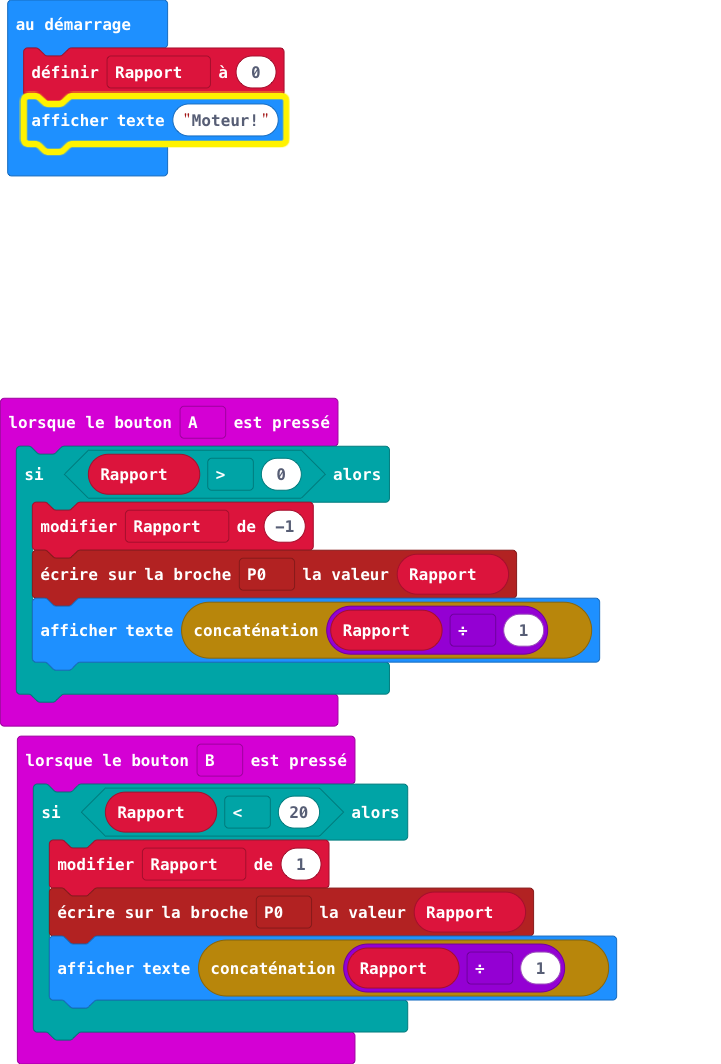
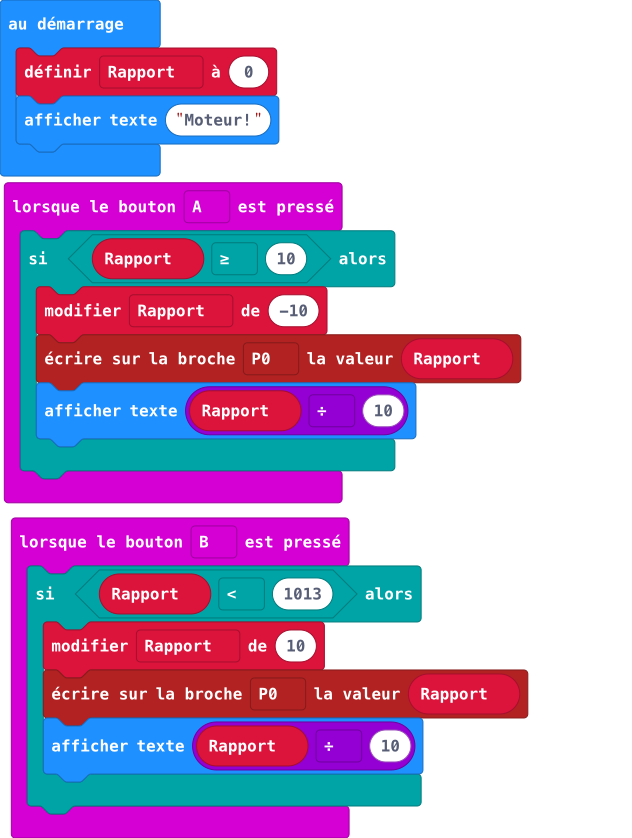
Mise à jour main.blocks, main.ts

diff --git a/main.ts b/main.ts
@@ -1,15 +1,15 @@
 input.onButtonPressed(Button.A, function () {
-    if (Rapport > 0) {
-        Rapport += -1
+    if (Rapport >= 10) {
+        Rapport += -10
         pins.digitalWritePin(DigitalPin.P0, Rapport)
-        basic.showString("" + Rapport / 1)
+        basic.showString("" + (Rapport / 10))
     }
 })
 input.onButtonPressed(Button.B, function () {
-    if (Rapport < 20) {
-        Rapport += 1
+    if (Rapport < 1013) {
+        Rapport += 10
         pins.digitalWritePin(DigitalPin.P0, Rapport)
-        basic.showString("" + Rapport / 1)
+        basic.showString("" + (Rapport / 10))
     }
 })
 let Rapport = 0
